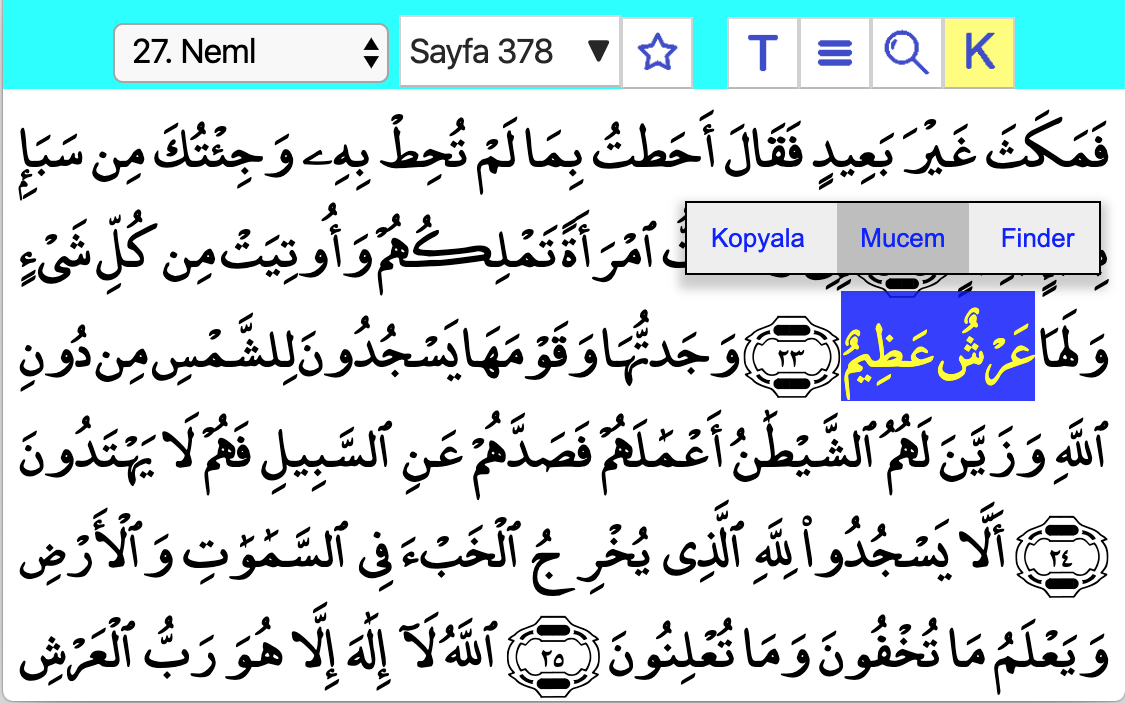
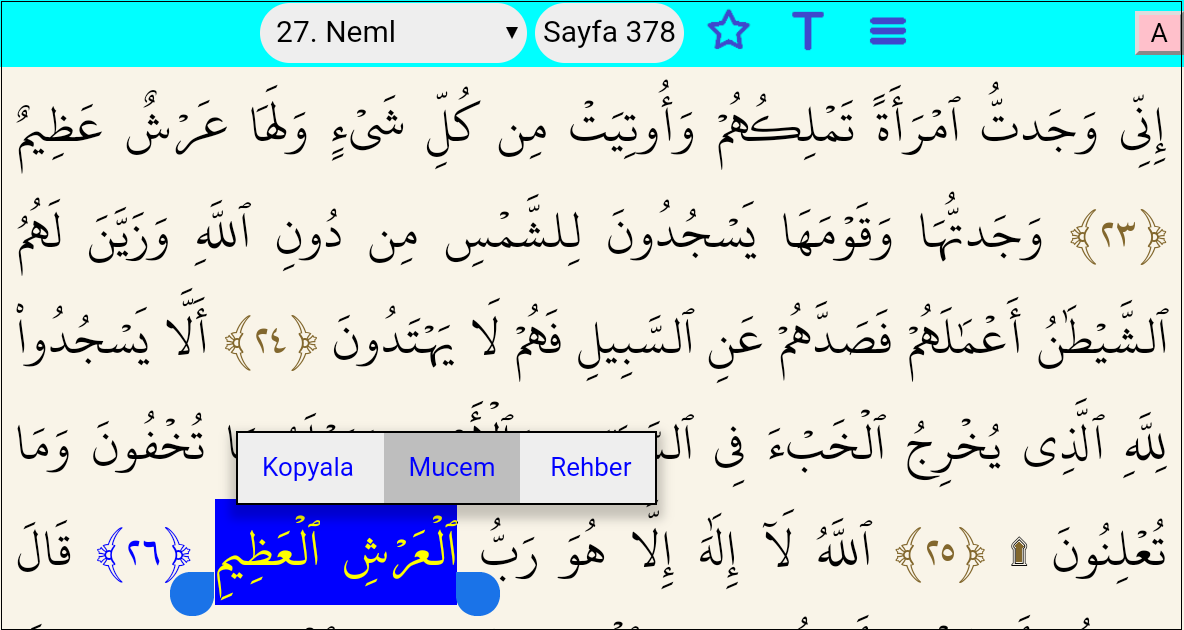
similarity in guideQ

diff --git a/guideQ.html b/guideQ.html
@@ -58,7 +58,10 @@
   <img src="docs/Iqra_dar.png" alt="Iqra dar" />
 </p>
 
-Bu resimde, iki kelime seçildikten sonra bağlam menüsü görülüyor. Bağlam menüsü için: mouse varsa sağ-tıklayın, yoksa kelimeye uzunca basın, ya da iki parmakla dokunun. Seçilen metin panoya kopyalanır ya da arama motorlarına gönderilir.
+Bu resimde, iki kelime seçildikten sonra bağlam menüsü, ayrıca 25. ayette
+secde ayetleri için kullanılan işaret görülüyor.
+</p>
+<p>Bağlam menüsü için: mouse varsa sağ-tıklayın, yoksa kelimeye uzunca basın, ya da iki parmakla dokunun. Seçilen metin panoya kopyalanır ya da arama modüllerine gönderilir.
 
 <h3 id="arama">2. Arama yöntemleri</h3>
 <p>Yazılım üç türlü aramayı destekliyor:</p>
@@ -93,8 +96,18 @@ Bu resimde, iki kelime seçildikten sonra bağlam menüsü görülüyor. Bağlam
 
 <h3 id="benzerlik">2.3 Benzer ayetler</h3>
 
-<p>(Bu kısım henüz yapılmadı)
-  <!-- ama birkaç örnek <a href="benzerlik.html">bu sayfada</a>) -->
+<p>Ayetlerin benzerliği konusunda birkaç örnek <a href="benzerlik.html">şu sayfada</a>
+verilmişti. Acaba bunun gibi benzerlikleri otomatik olarak bulmak mümkün mü?
+Cevap evet, benzerlik modülünün ilk sürümü bile epeyce başarılı oldu:
+</p>
+<p>
+  <img src="docs/Iqra_simi.png" alt="Iqra simi" />
+</p>
+<p>Örnek olarak alınan sayfada, numarası mavi renkli olan üç ayet var. 
+Mesela gösterilen 30. ayet için, üç farklı ayet benzer bulunmuş. Bu ayette
+geçen besmele, elbette Kitab'ın ilk ayeti ile aynı. Mucem'de olduğu gibi,
+benzerlik modülü de Arapça kelime kökleri ile çalıştığı için,
+sadece Arapça metinde kullanılır, mealler için benzerlik modülü henüz yok.
 </p>
 
 <h3 id="yetenekler">3. Yazılımın yetenekleri</h3>
@@ -106,7 +119,7 @@ Bu resimde, iki kelime seçildikten sonra bağlam menüsü görülüyor. Bağlam
   <li>Güncelleme gerekmez, yeni sürümler otomatik indirilir</li>
   <li>Bir uygulama gibi, kendi penceresinde açılabilir</li>
   <li>Internet bağlantısı olmadan off-line çalışabilir</li>
-  <li>Masa-üstü ekranlarından telefona kadar her boya uyumludur</li>
+  <li>Masa-üstünden telefona kadar her boy ekranla uyumludur</li>
 </ul>
 
 <p>Yazılımı kullanırken, arama ve Mushaf pencerelerini aynı anda açık tutmayı tavsiye ediyoruz. Geniş ekranlarda mouse ile, dar ekranlarda adres çubuğunu kaydırarak (ya da ilgili linklere tıklayarak) pencereler arası geçiş sağlanıyor. Aşağıdaki iki örnek üstünde yazılımın yeteneklerini özetleyelim:</p>
